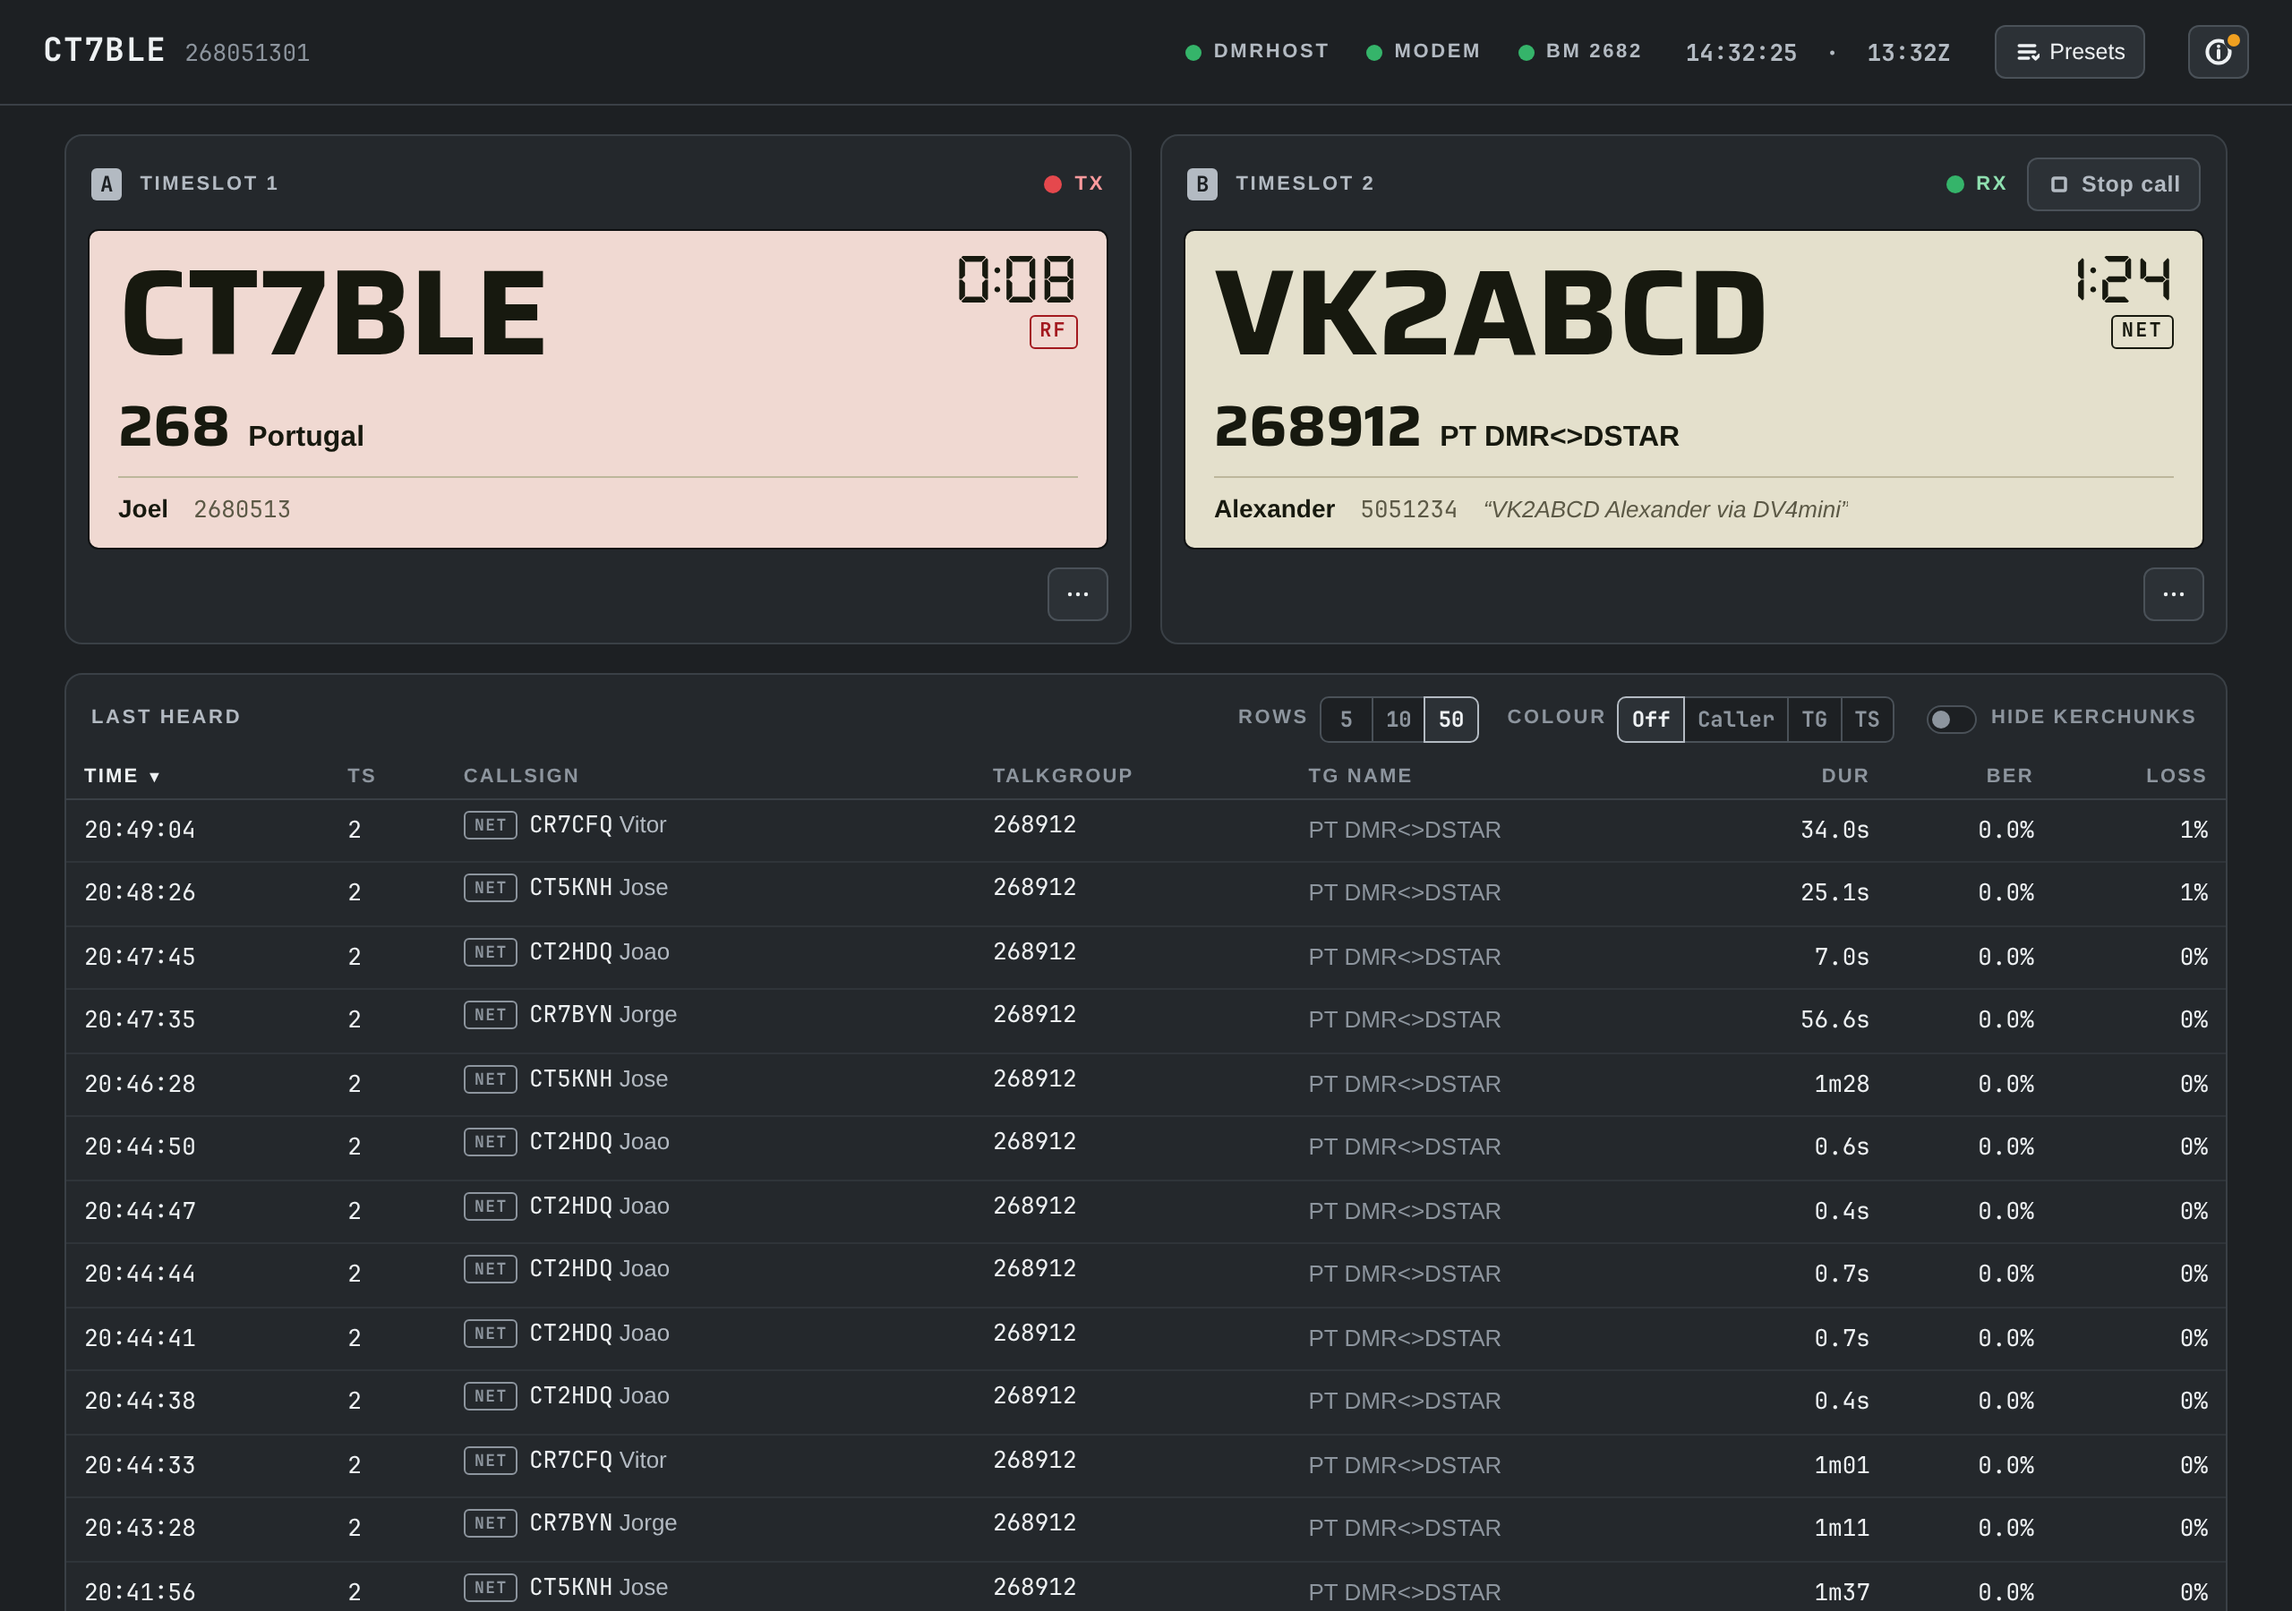
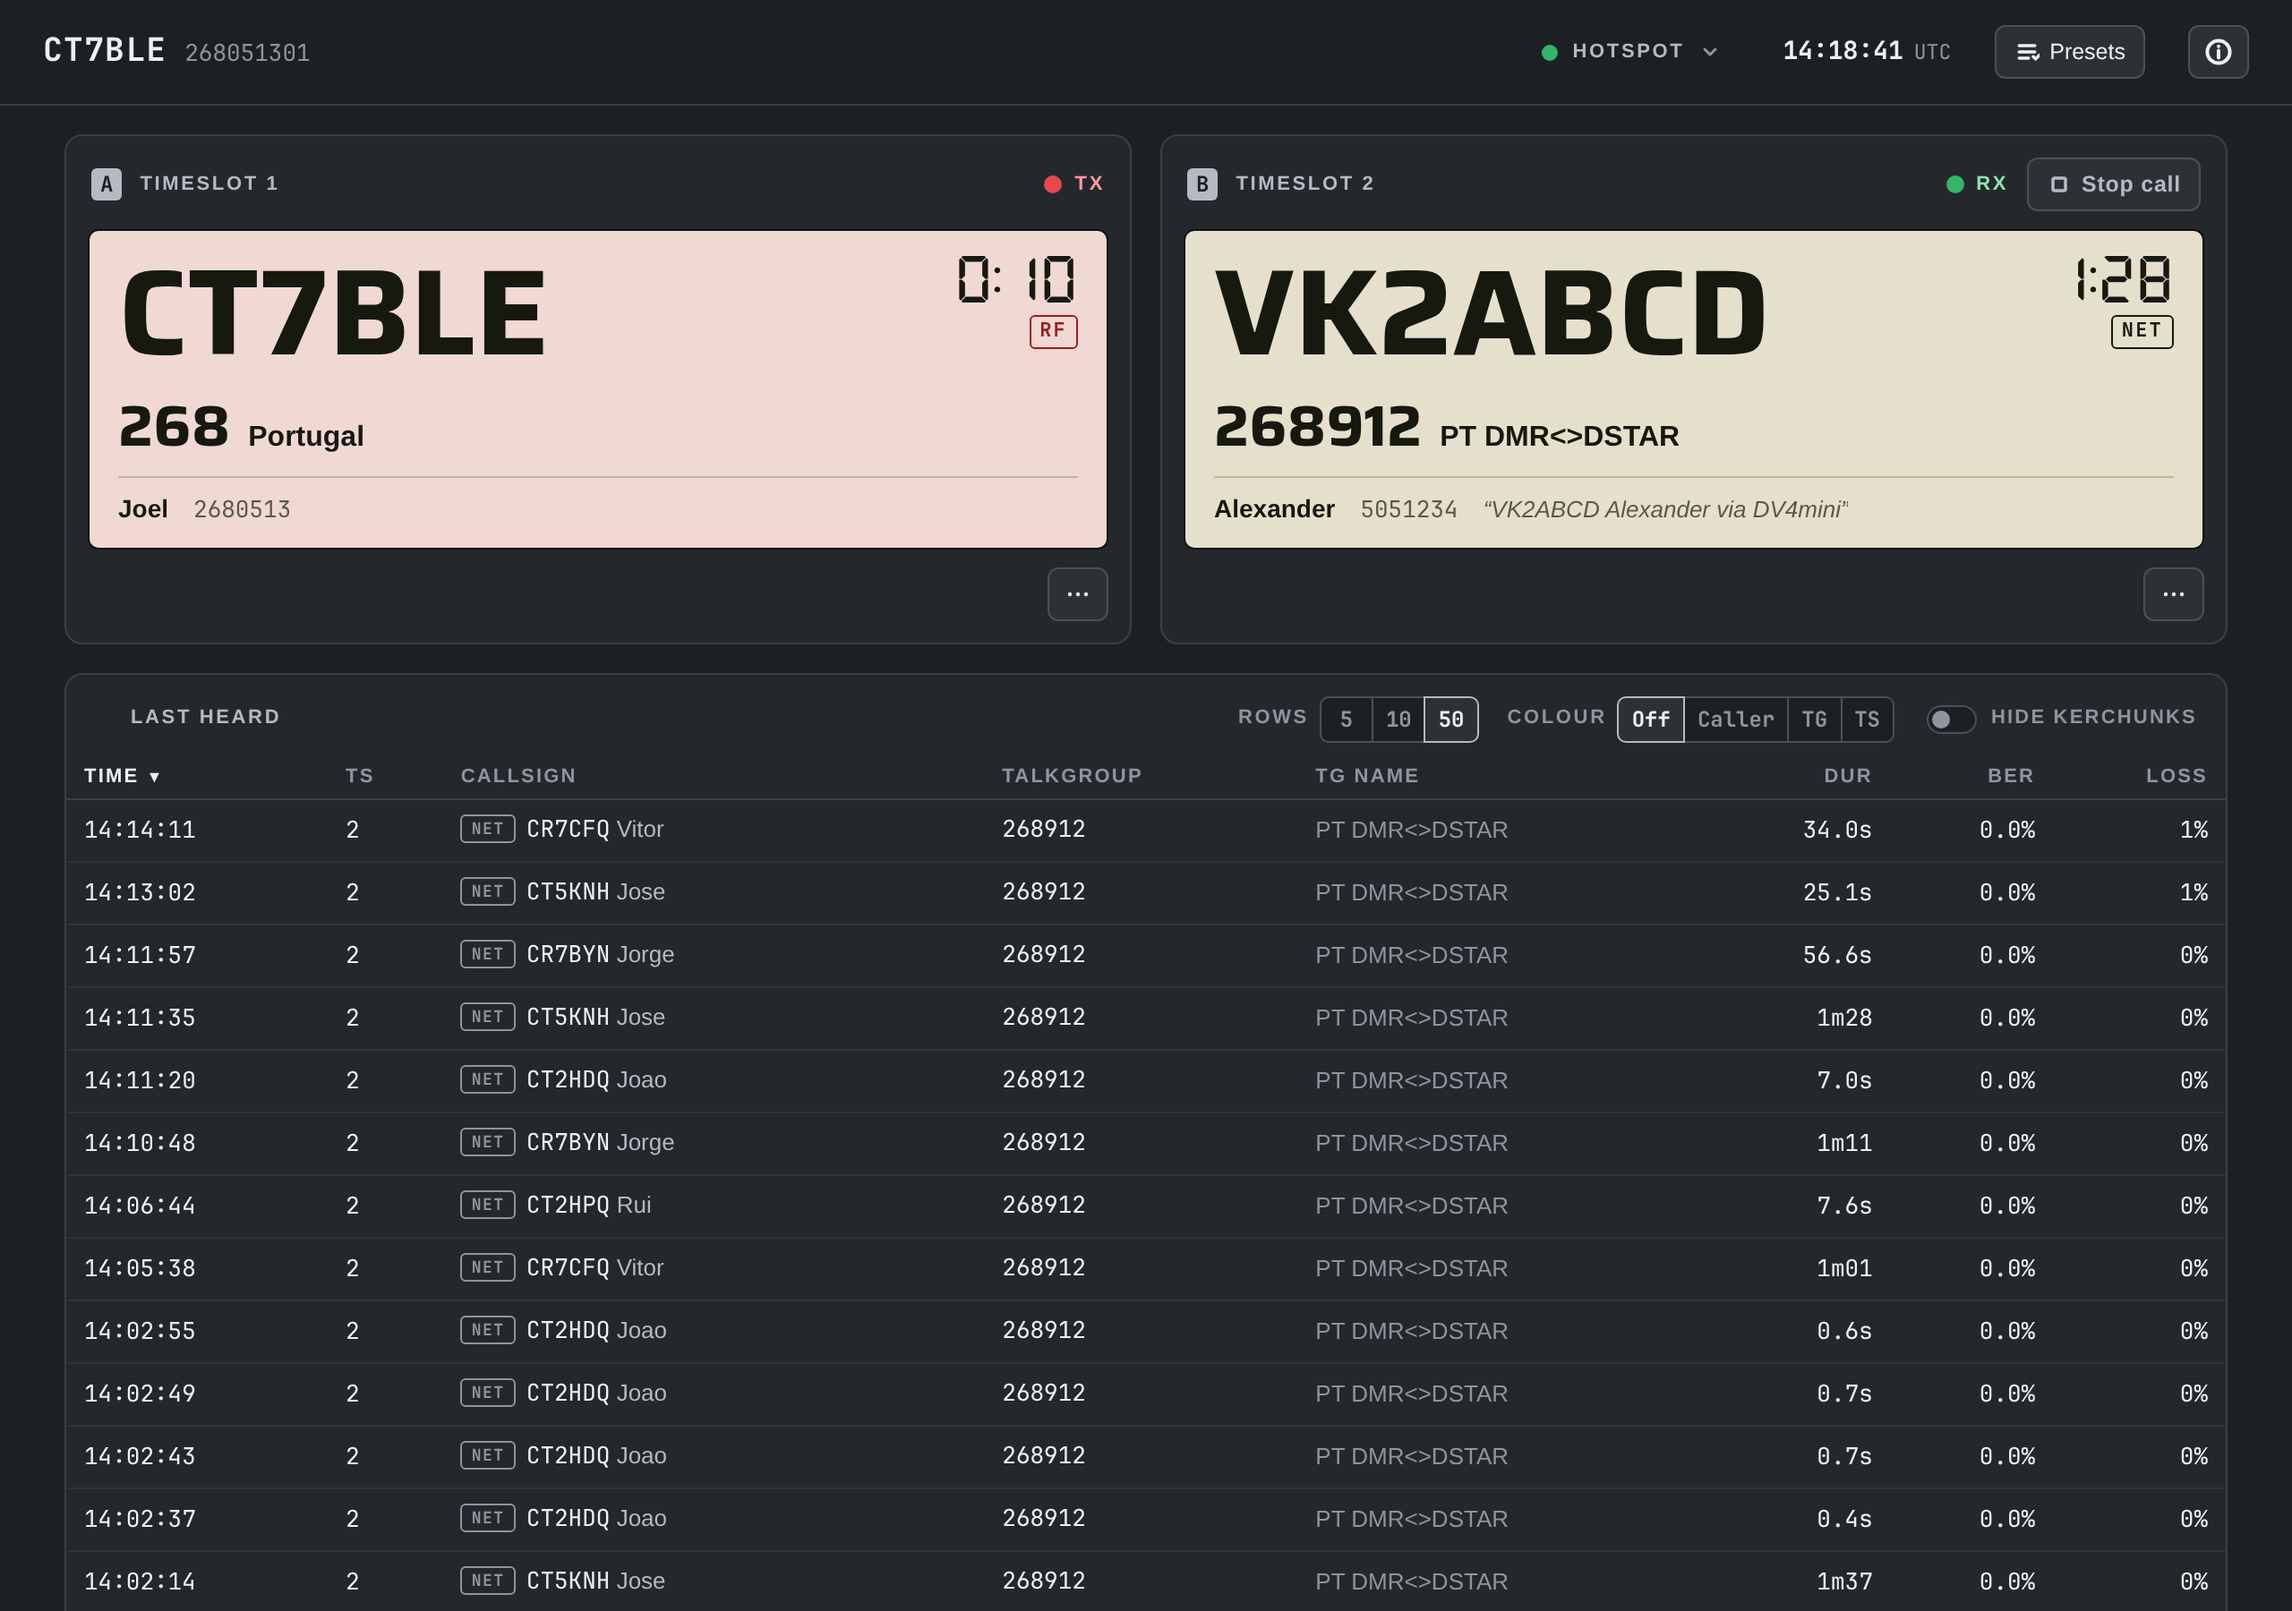
Phone strip on one row again; new README screenshots; v1.5.1
On a 390px phone the single-line clock (1.3.0) pushed the (i) key onto a
row of its own. Under 820px "UTC" now sits under the time and the strip's
gaps are 14px, so the lamp, clock, Presets and (i) share one row.

docs/desktop.png and docs/phone.png show the current dashboard: one
Hotspot lamp and the single clock.

diff --git a/index.html b/index.html
@@ -563,8 +563,9 @@ dt { color: var(--legend-dim); } dd { margin: 0; overflow-wrap: anywhere; } dd.n
   .lcd { min-height: 150px; }
   .station { margin-right: 0; width: 100%; }
   .clock { margin-left: auto; }
+  .clock.one { grid-auto-flow: row; gap: 4px; }  /* "UTC" under the time: one line is too wide to keep the strip's keys on one row */
   .health { margin-left: -10px; }  /* the lamp lines up under the callsign */
-  .strip { padding: 14px 16px; }
+  .strip { padding: 14px 16px; column-gap: 14px; }  /* the lamp, clock, Presets and (i) share one row on a 390px phone */
   .hide-s, td .nm { display: none; }
   th, td, th button { padding: 6px 5px; } th button { gap: 2px; } table { font-size: 12px; } .src { margin-right: 4px; }
 }

diff --git a/dmrdash.py b/dmrdash.py
@@ -38,7 +38,7 @@ from http.server import BaseHTTPRequestHandler, ThreadingHTTPServer
 CONF_PATH = os.environ.get("DMRDASH_CONF", "/etc/dmrdash.conf")
 HERE = os.path.dirname(os.path.abspath(__file__))
 BM_API = "https://api.brandmeister.network/v2"
-VERSION = "1.5.0"
+VERSION = "1.5.1"
 USER_AGENT = "dmrdash/" + VERSION
 
 DEFAULTS = {

diff --git a/DESIGN.md b/DESIGN.md
@@ -253,7 +253,7 @@ Hard keys on the panel, tactile by border, never by shadow.
 ### Status strip / LEDs
 - Circular LED plus engraved legend. Green for healthy, amber for warning, red for failure (the legend itself turns fail-text on failure), dark for off.
 - **Hotspot lamp:** DMRHost, Modem and the BM link share one LED in the strip, which shows the worst of the three. When all are healthy its legend reads HOTSPOT. Otherwise it names the worst one and its state in plain legend-tone text ("BM 2682 connecting", "MODEM error +1", the +n counting the others not healthy). While the Pi can't be reached it is amber and reads "HOTSPOT no update". It is a transparent 30px key with a 12px chevron that gains the key graphite cap and a key-rule border on hover and while open.
-- **Clock:** one right-aligned readout of two lines: local time with seconds on top (data face 600 14px, white), and UTC under it as "08:32 UTC" (data face 11.5px, dim legend). Tabular figures, so it doesn't jitter as it ticks. When local time is UTC (Portugal in winter), it is one line: the time with seconds, then a dim "UTC" on the same baseline.
+- **Clock:** one right-aligned readout of two lines: local time with seconds on top (data face 600 14px, white), and UTC under it as "08:32 UTC" (data face 11.5px, dim legend). Tabular figures, so it doesn't jitter as it ticks. When local time is UTC (Portugal in winter), it is one line: the time with seconds, then a dim "UTC" on the same baseline. Under 820px "UTC" sits under the time instead, so the strip's keys stay on one row.
 - **Hotspot popover:** opens down from the lamp (same shell as Presets, up to 380px wide, scrolls if taller than the window), right-aligned to it on a desktop and left-aligned on a phone, where the lamp wraps under the callsign. It answers "is it healthy, and if not, what do I do": each part of the hotspot has one row with the control that acts on it. Under a HOTSPOT legend, the rows are DMRHost, Modem, BM and Pi. Each has the LED, the name, the state in words (coloured amber or fail text when not healthy), and a dim mono line under them: the DMRHost version, the modem name, since when the link has been in its state, or the Pi's hostname and IP. The Pi's state is its uptime ("Up 3d 4h"), and its LED is green unless the page can't reach it; the Pi doesn't count towards the strip lamp. The controls (see Hotspot controls) sit on the row they act on. A one-key control goes at the right end of the name line: Restart on DMRHost, and Restart plus an icon-only Shut down on Pi. A wider control gets its own line under the detail: RF power under Modem, and the master picker under BM. Spacing: 14/16px inside the popover, 12px top and bottom on each row; the name (sans 600 14px) has its state after it on the same baseline (regular 13px legend, amber or fail text and 600 when not healthy). One-key controls centre on the name and detail lines; a control line sits 9px under the detail and spans the text width (RF power's group stretches to line up with the master picker). The uptime shows once, on DMRHost; Modem and BM add how long only while they're not healthy. Rows are updated in place on each poll, never rebuilt, so an open master list or a typed ID survives. It stays live while open, and closes on Escape (focus returns to the lamp), on an outside tap, or when another menu opens.
 
 ### Alarm banner
